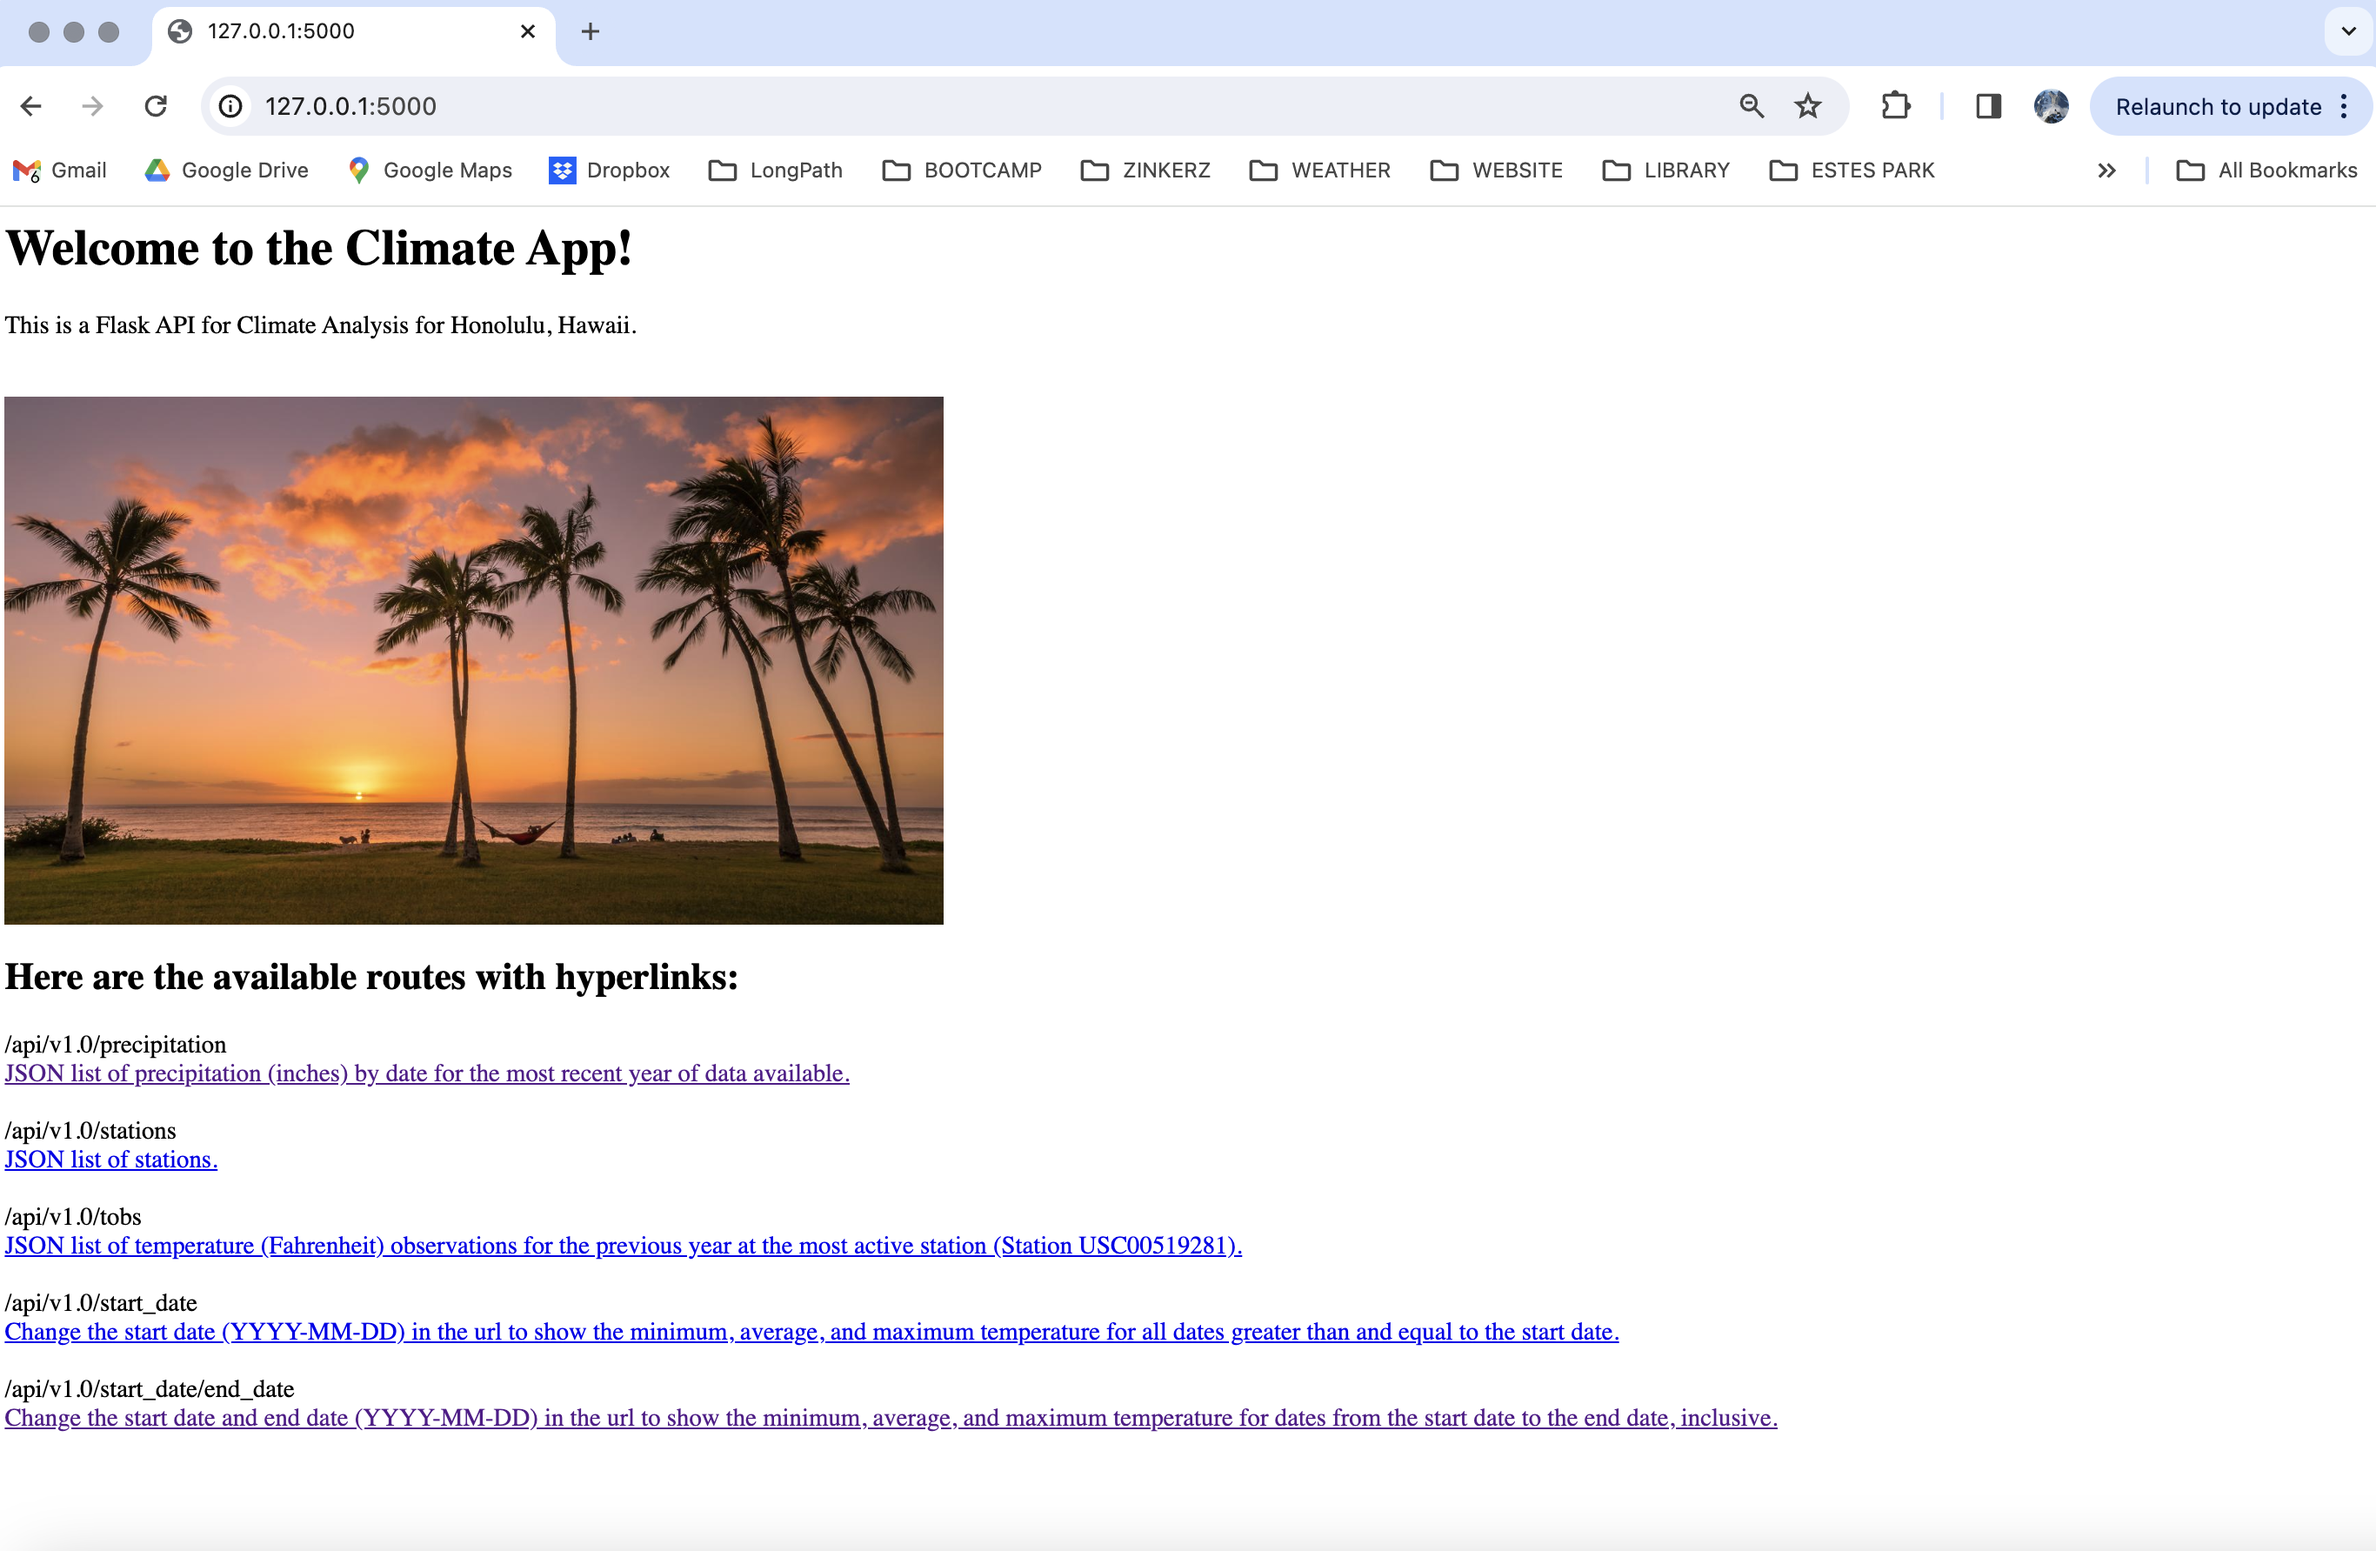
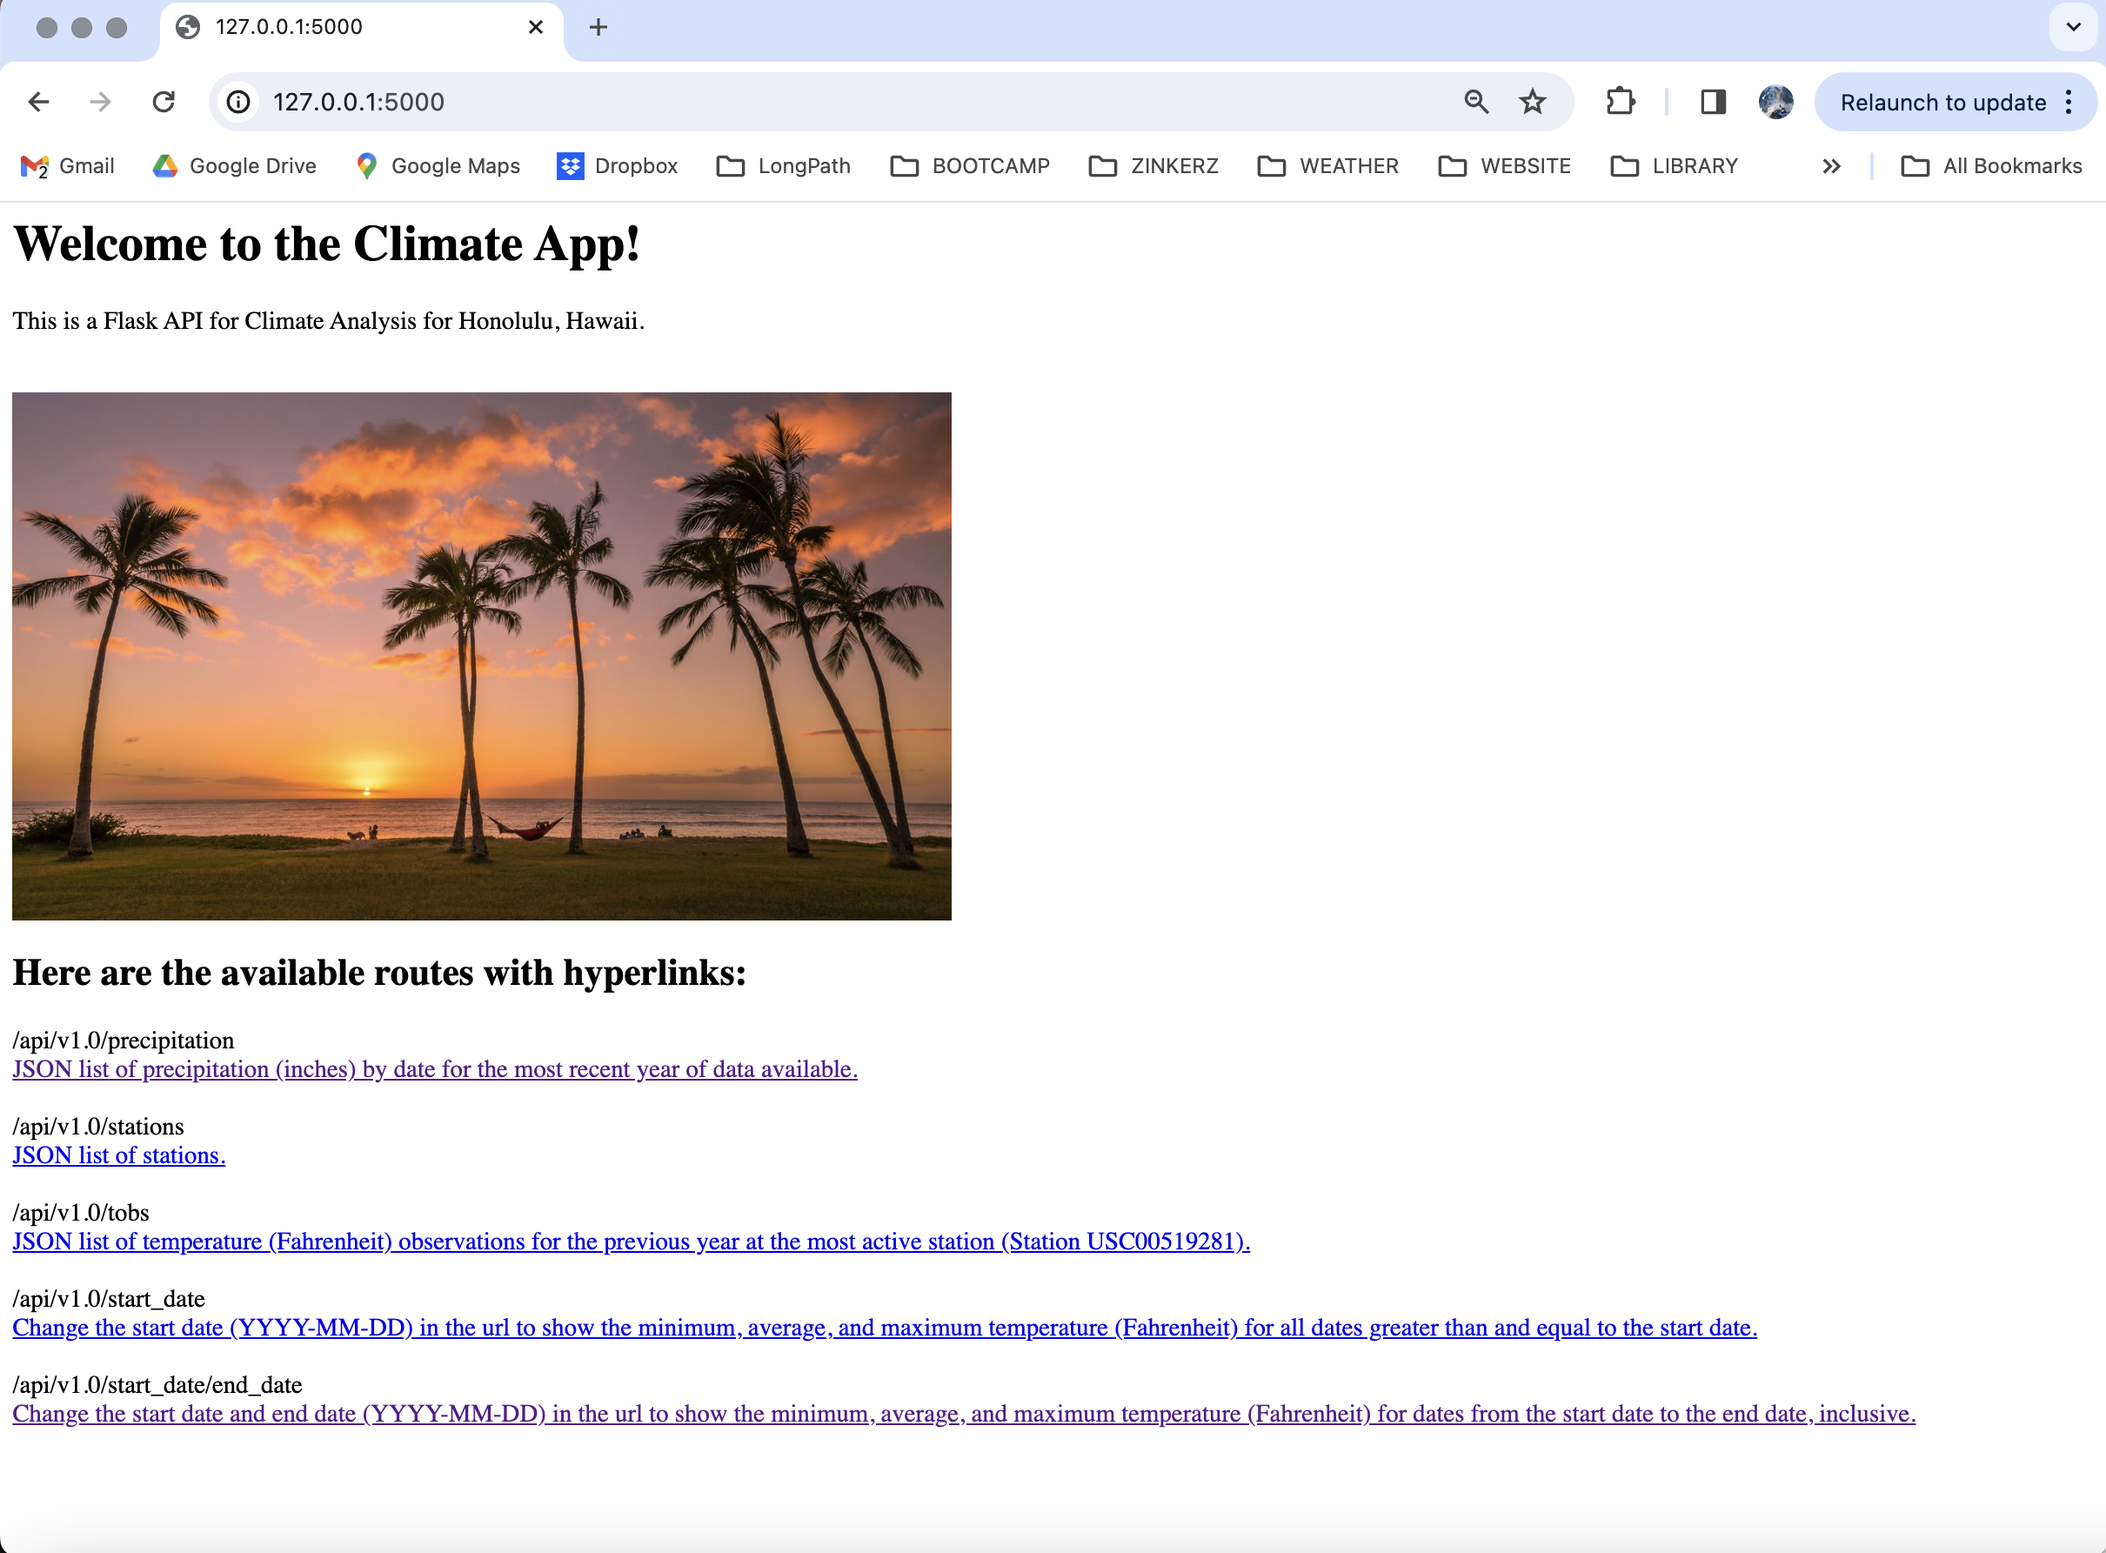
more images

Changed region(s): [[0.0, 0.2468, 0.8984, 0.9254], [0.0, 0.0, 1.0, 0.2159], [0.2169, 0.0, 0.2788, 0.0617]]

diff --git a/SurfsUp/app.py b/SurfsUp/app.py
@@ -89,11 +89,11 @@ def homepage():
 
         "/api/v1.0/start_date<br/>"
         "<a href=http://127.0.0.1:5000/api/v1.0/2016-08-23> \
-            Change the start date (YYYY-MM-DD) in the url to show the minimum, average, and maximum temperature for all dates greater than and equal to the start date.</a><br/><br/>"
+            Change the start date (YYYY-MM-DD) in the url to show the minimum, average, and maximum temperature (Fahrenheit) for all dates greater than and equal to the start date.</a><br/><br/>"
 
         "/api/v1.0/start_date/end_date<br/>"
         "<a href=http://127.0.0.1:5000/api/v1.0/2016-08-23/2017-08-23> \
-            Change the start date and end date (YYYY-MM-DD) in the url to show the minimum, average, and maximum temperature for dates from the start date to the end date, inclusive.</a><br/>" 
+            Change the start date and end date (YYYY-MM-DD) in the url to show the minimum, average, and maximum temperature (Fahrenheit) for dates from the start date to the end date, inclusive.</a><br/>" 
     )
 
 # Convert the query results from your precipitation analysis (i.e. retrieve only the last 12 months of data) 
